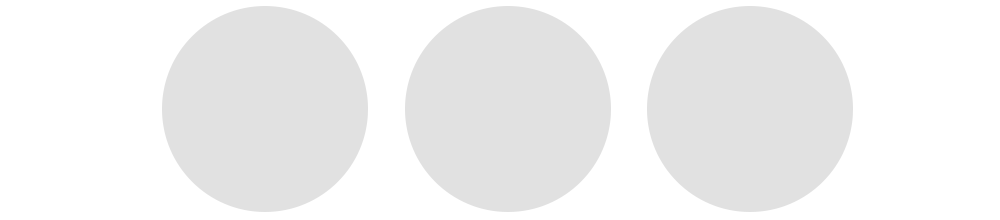
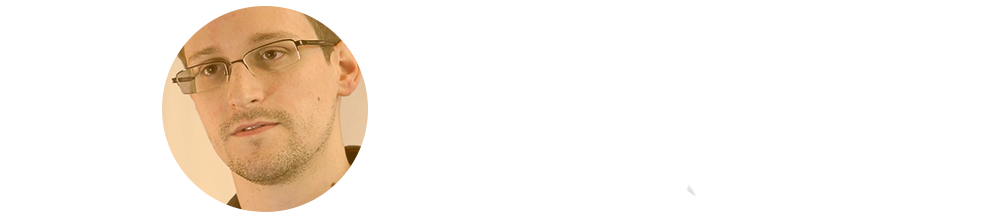
SPEAKER | new layout for image and caption

diff --git a/src/assets/lib/jquery.bxslider.css b/src/assets/lib/jquery.bxslider.css
@@ -190,15 +190,22 @@
 	position: absolute;
 	bottom: 0;
 	left: 0;
-	background: #666\9;
-	background: rgba(80, 80, 80, 0.75);
-	width: 100%;
+	/*background: #666\9;*/
+	/*background: rgba(80, 80, 80, 0.75);*/
+	width: 50%;
+	height: 100%;
+	margin-left: 40%;
+	text-align: left;
+	padding: 10px;
 }
 
 .bx-wrapper .bx-caption span {
-	color: #fff;
-	font-family: Arial;
+	color: #000;
+	font-family: "open sans", Arial;
 	display: block;
-	font-size: .85em;
-	padding: 10px;
+	font-size: 1em;
+	padding: 15px;
+	text-align: left;
+	width: 80%;
+	overflow: hidden;
 }
